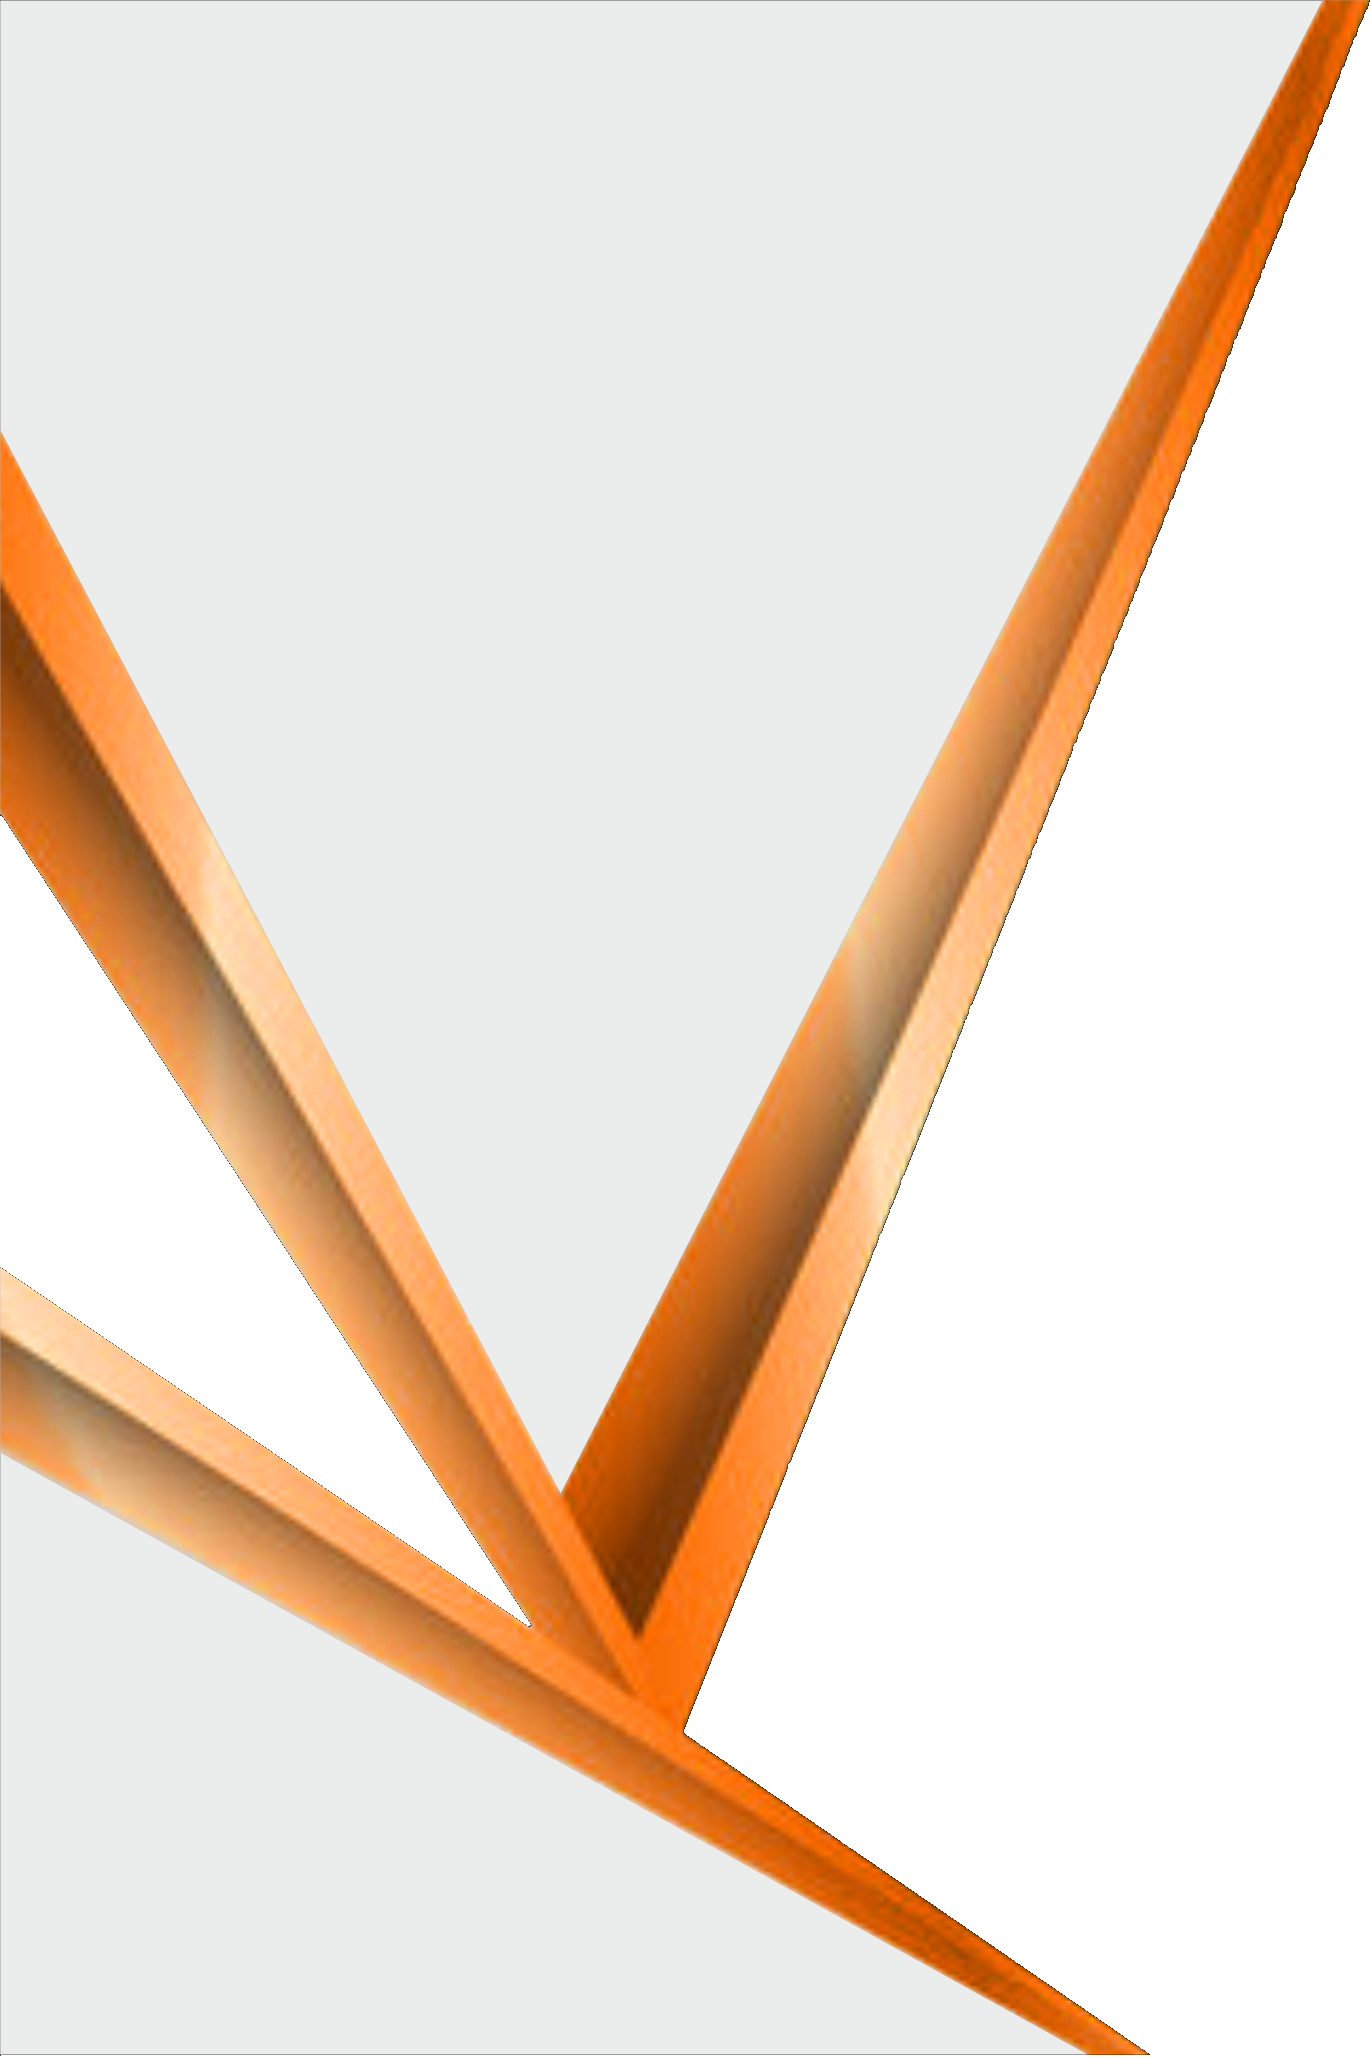
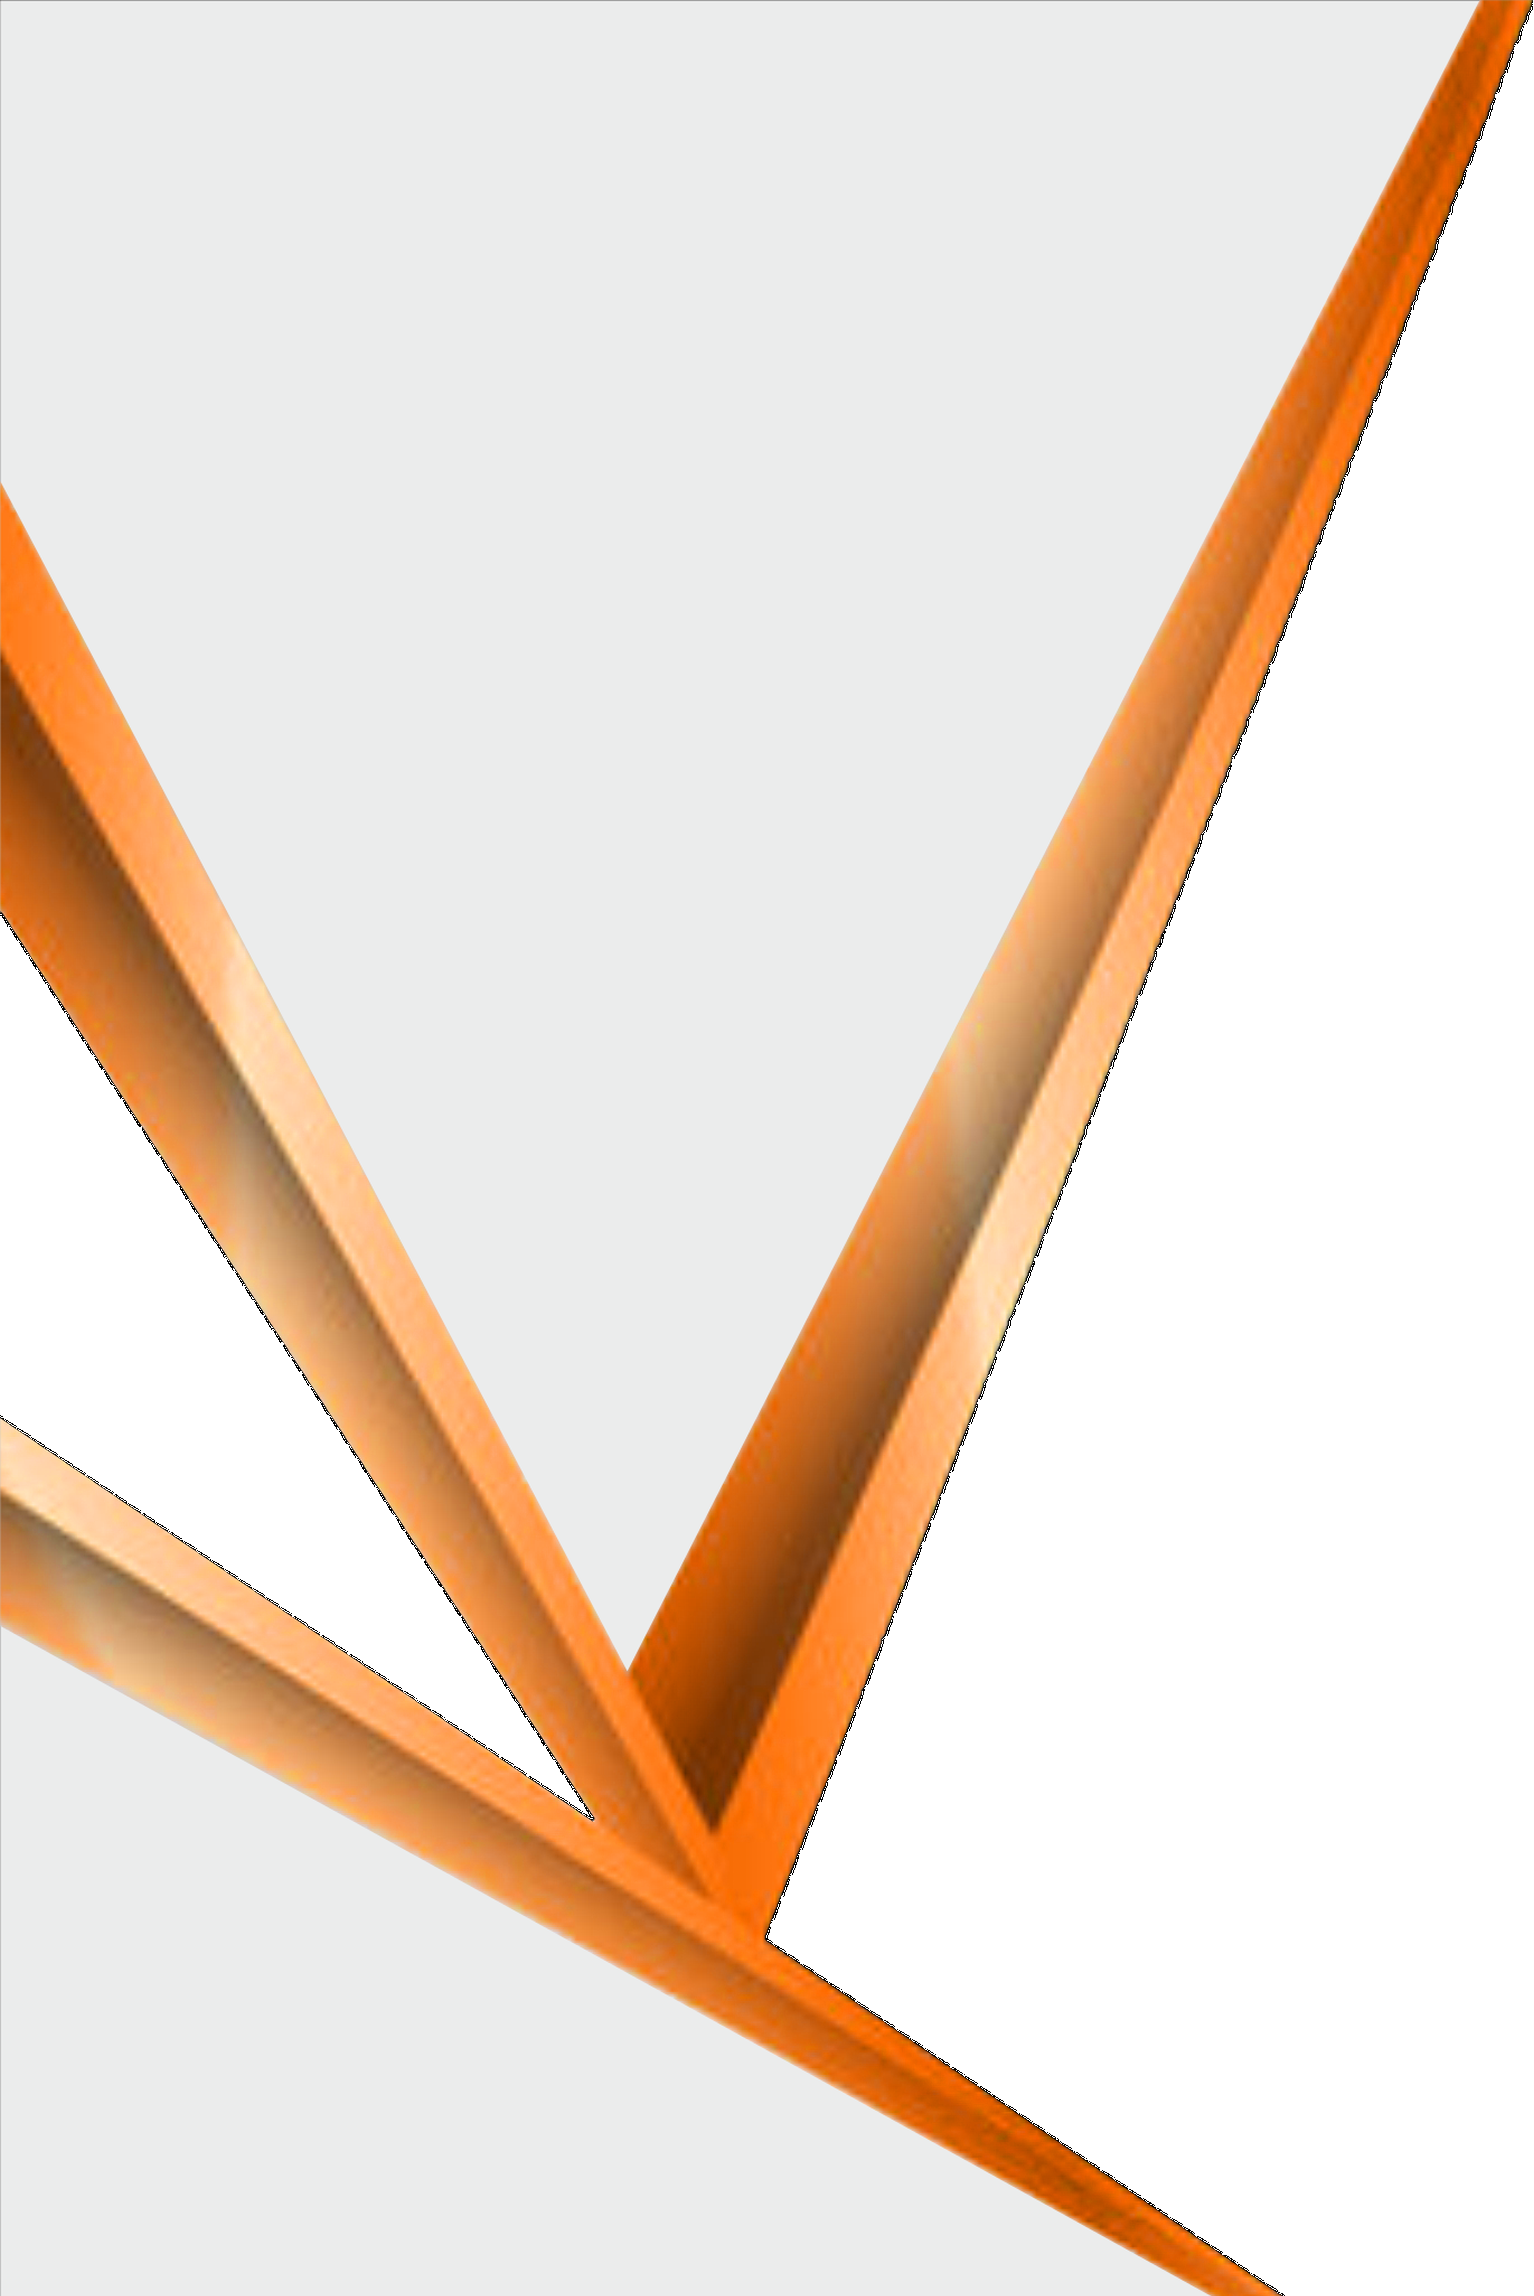
Bitmap Image edited

diff --git a/index.html b/index.html
@@ -25,10 +25,11 @@
         </nav>
     </header>
     <main class="main-content">
-        <!-- Bitmap Image
+
         <img src="./bg_bitmap.png" alt="" class="background-image">
-        -->
+        <!--
         <img src="./bg-main.png" alt="" class="background-image">
+        -->
         <div class="content">
             <h1>JEDINEČNÝ ORIGINÁL<br>PRE VAŠE ŠPORTOVÉ PODUJATIE</h1>
         </div>
